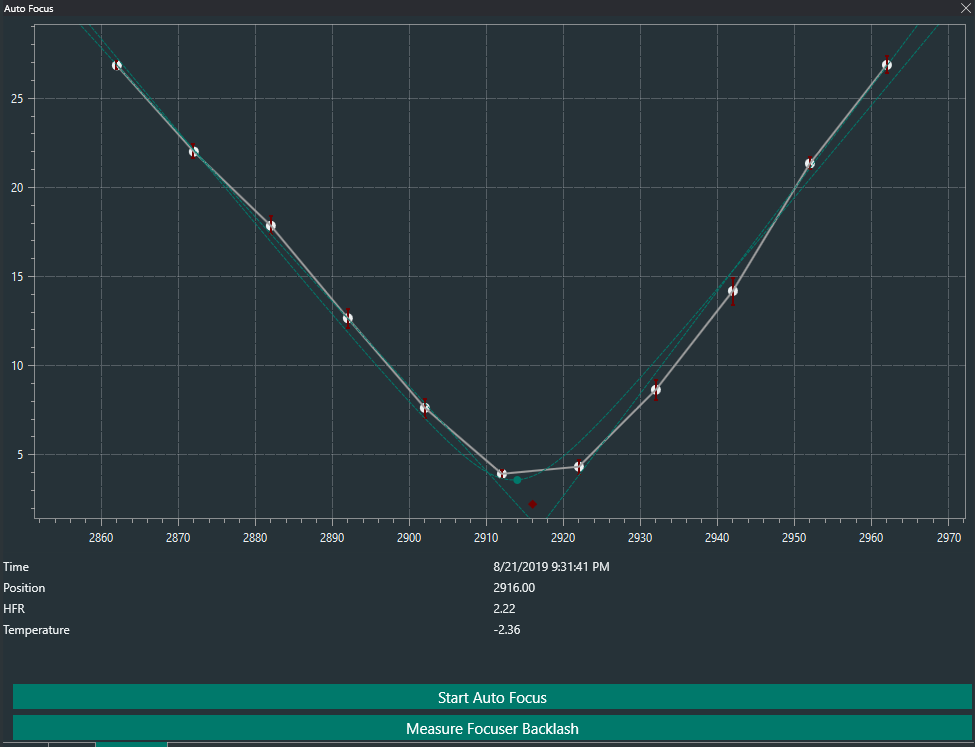
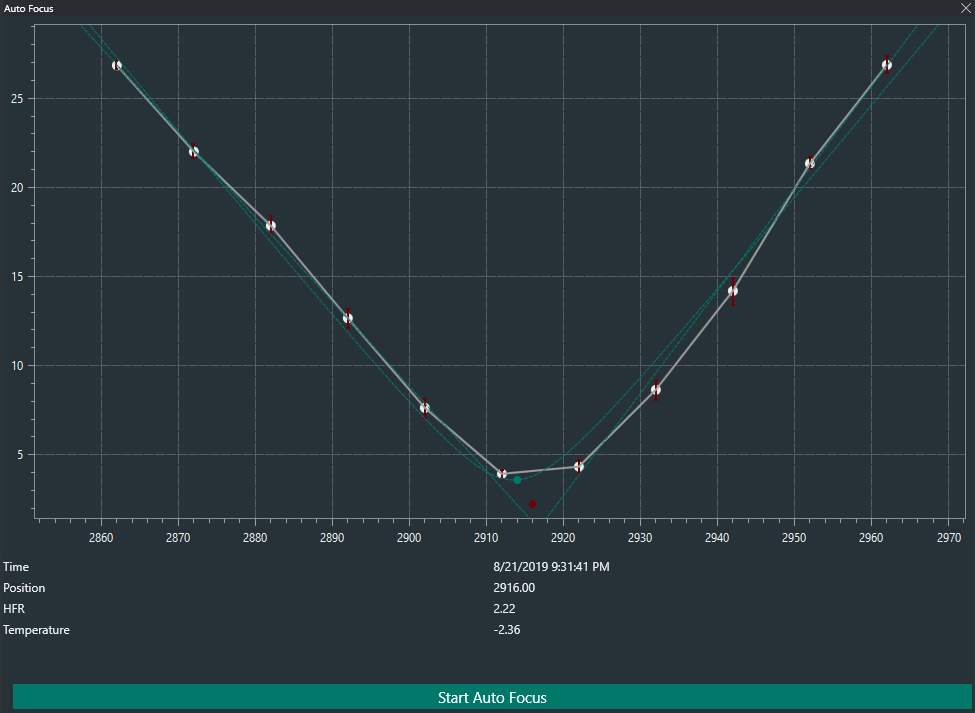
Merged in feature/hf1_adjustments (pull request #31)
Feature/hf1 adjustments

* adjust rotator to latest changes

* import sequence button

* add troubleshooting guide to setup stellarium plugin

* remove backlash measure button that is no longer available from images

diff --git a/docs/tabs/equipment/rotator.md b/docs/tabs/equipment/rotator.md
@@ -4,7 +4,11 @@ A Manual Rotato option is also available
 ![Rotator](../../images/tabs/equipment_rotator.png)
 
 1. Rotator information 
-2. Move the rotator to the selected angle
+2. Reverse the direction of the rotator (if available). Enable this option, when the rotator moves into the wrong direction during centering and rotation. This is for example required on setups like a Hyperstar where the horizontal image axis is flipped.  
+3. Move the rotator to the selected angle
+
+!!! note
+The rotator angle will be synced to the sky angle after a center+rotation happened and will display the sky angle instead of the mechanical angle instead.
 
 ## Manual Rotator
 
@@ -25,5 +29,5 @@ Rotate the camera and close the manual rotator window, a new platesolve will be 
 
 ![ManualRotator](../../images/tabs/manualrotator.PNG)
 
-!!!tip
+!!! tip
      If you want to set camera rotation before starting the main imaging sequence you can use a dummy sequence with exposure 1s to kick the manual rotator in

diff --git a/docs/troubleshooting/planetarium.md b/docs/troubleshooting/planetarium.md
@@ -1,0 +1,16 @@
+# Setting up planetarium software
+
+## Stellarium
+
+For Stellarium being able to sync coordinates to N.I.N.A. the remote plugin needs to be enabled and the server started.  
+First head to the stellarium configuration by pressing F2 inside stellarium  
+![Configuration](../images/troubleshooting/planetarium/stellarium_configuration.png)
+
+Head to the plugins tab, search for the "Remote Control" plugin and select it.  
+On the right side, check the "Load at startup" option.  
+
+![Plugins](../images/troubleshooting/planetarium/stellarium_plugins.png)
+
+Once the plugin is enabled, you also need to enable the plugin server. To do so, click on the "configuration" button and check "Server enabled" as well as "Enable automatically on startup" to not have to do this each time.  
+
+![Remote Control](../images/troubleshooting/planetarium/stellarium_remote_control.png)

diff --git a/docs/tabs/sequence.md b/docs/tabs/sequence.md
@@ -21,8 +21,9 @@ The Sequence interface consists of the following elements:
      Buttons to edit sequences, from left to right:
      * Moves sequence to the right
      * Moves sequence to the left
-     * Saves Sequence set to a specific folder. This will save all sequences that are present in the sequence tab.
-     * Loads Sequence set. This will replace all sequences in the Sequence tab.
+     * Saves sequence set to a specific folder. This will save all sequences that are present in the sequence tab.
+     * Loads sequence set. This will replace all sequences in the Sequence tab.
+     * Import a sequence set from an external source.
      * Adds a new sequence 
   
     > If a **Sequence Template** file is specified under **Options > Imaging > Sequence**, that template will be automatically loaded in the new tab.
